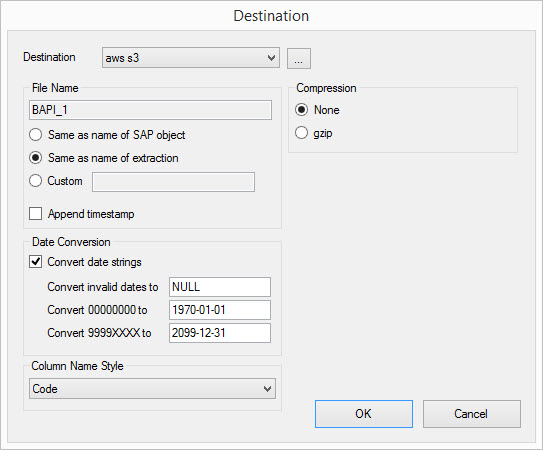
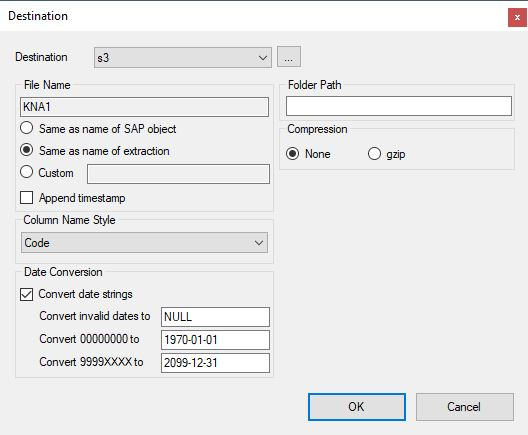
XU S3 destination settings new

diff --git a/content/_de/xtract-universal/xu-zielumgebungen/amazon_aws_s3/einstellungen.md b/content/_de/xtract-universal/xu-zielumgebungen/amazon_aws_s3/einstellungen.md
@@ -18,6 +18,10 @@ Einstellungen zu AWS S3, die pro Extraktion vorgenommen werden können.
 
 Die Einstellungsmöglichkeiten in der linken Fensterhälfte entsprechen denen, die auch für die [csv-flatfile](../zielumgebungen/csv-einstellungen-der-zielumgebung) Zielumgebung vorgenommen werden können.
 
+**Folder Path**
+Geben Sie hier einen Ordnernamen ohne Schrägstriche ein, wenn die Extraktion in einen Ordner innerhalb eines S3 Buckets extrahiert werden soll.
+Unterordner werden ebenfalls unterstützt und können wie folgt eingegeben werden: Ordner/Unterordner1/Unterordner2/...
+
 **Compression**
 
 **None**<br>

diff --git a/content/_en/xtract-universal/xu-destinations/amazon-aws-s3/settings.md b/content/_en/xtract-universal/xu-destinations/amazon-aws-s3/settings.md
@@ -17,6 +17,10 @@ Click on the Destination button to define extraction-specific settings of the ex
 
 The settings in the left part of the window correspond to the ones of the [flatfile csv-destination](../csv-flat-file/csv-destination-settings).
 
+**Folder Path**
+Enter a folder name without slashes here if you want the extraction to be extracted to a folder within an S3 bucket.
+Subfolders are also supported and can be entered as follows: Folder/Subfolder1/Subfolder2/...
+
 **Compression**
 
 **None**<br>
